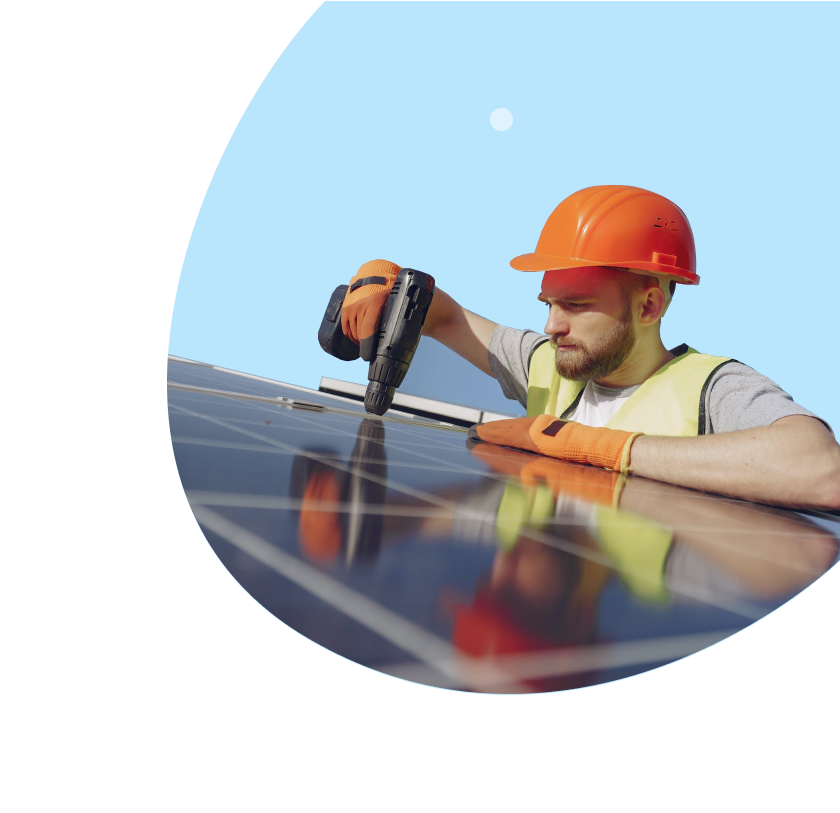
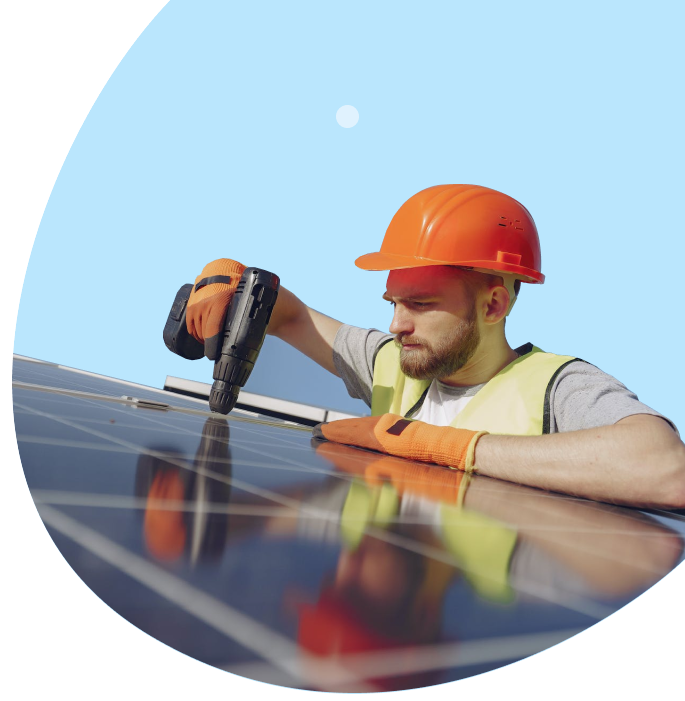
fix: header items positions
- change image size
- fixing responsiviness

diff --git a/app/src/components/Header/index.tsx b/app/src/components/Header/index.tsx
@@ -1,23 +1,25 @@
-import Button from '@/components/Button';
-import Image from 'next/image';
 import { motion } from 'framer-motion';
+import Image from 'next/image';
+
+import Button from '@/components/Button';
 import Contact from '@/components/Contact';
 import Navigation from '@/components/Navigation';
 
 export default function Header() {
   const AnimatedImage = motion.create(Image);
   return (
-    <header className="h-14 flex items-center justify-between px-4 relative lg:h-28 xl:px-20">
-      <div className="left flex">
+    <header className="h-full flex items-start justify-between md:items-center md:p-4 xl:px-20 xl:py-6">
+      <div className="left flex items-center">
         <motion.h1
           initial={{ opacity: 0 }}
           animate={{ opacity: 1 }}
           exit={{ opacity: 0 }}
           transition={{ duration: 0.3, delay: 0.4 }}
-          className="logo font-bold text-4xl leading-8 mr-10 flex items-center"
+          className="font-bold text-4xl leading-8 md:mr-10 h-full pt-3 pl-4 md:pt-0 md:pl-0"
         >
           soller
         </motion.h1>
+
         <Navigation />
       </div>
       <motion.div
@@ -35,7 +37,7 @@ export default function Header() {
         animate={{ opacity: 1 }}
         exit={{ opacity: 0 }}
         transition={{ duration: 0.6, delay: 0.4 }}
-        className="absolute right-0 top-0 -z-10 object-contain w-11/12 sm:w-full md:w-auto"
+        className="md:absolute right-0 top-0 -z-10 w-4/5 md:w-1/2 xl:w-1/3"
         alt="man screwing solar panel"
         src={'/assets/backgrounds/man-working.png'}
         width={820}

diff --git a/app/src/components/Navigation/index.tsx b/app/src/components/Navigation/index.tsx
@@ -5,7 +5,7 @@ export default function Navigation() {
 
   return (
     <nav>
-      <ul className="gap-4 hidden lg:flex">
+      <ul className="hidden sm:gap-4 md:flex">
         {options.map((option, i) => (
           <motion.li
             initial={{ y: -100 }}
